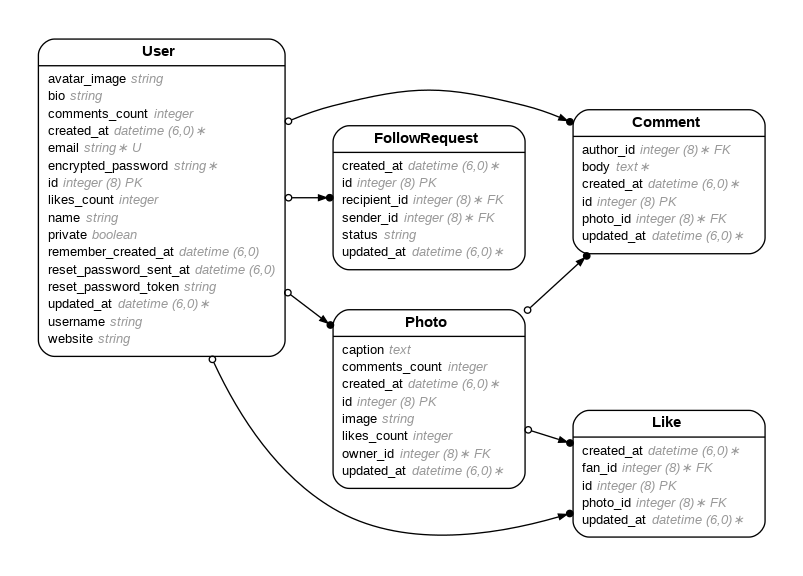
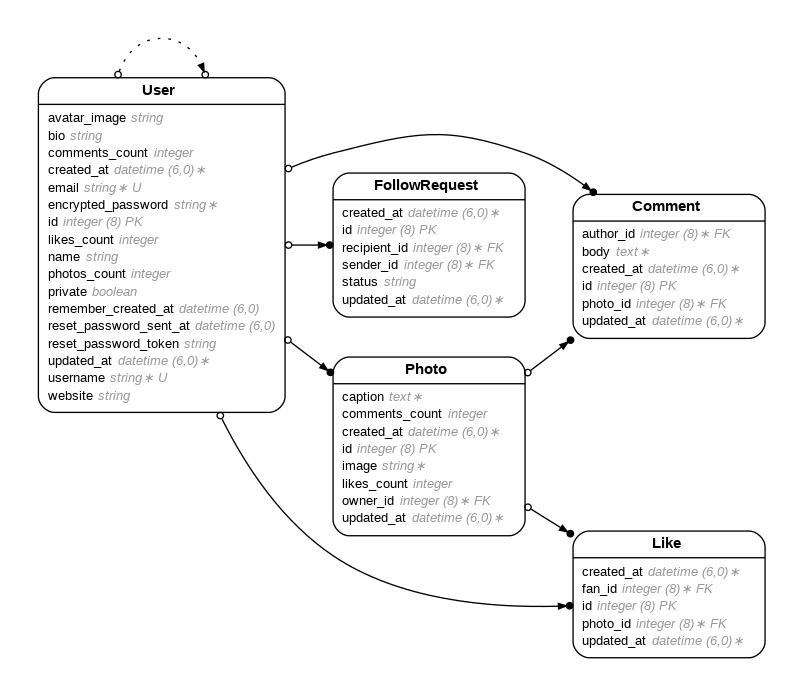
associations

diff --git a/app/models/user.rb b/app/models/user.rb
@@ -10,7 +10,8 @@
 #  encrypted_password     :string           default(""), not null
 #  likes_count            :integer          default(0)
 #  name                   :string
-#  private                :boolean
+#  photos_count           :integer
+#  private                :boolean          default(TRUE)
 #  remember_created_at    :datetime
 #  reset_password_sent_at :datetime
 #  reset_password_token   :string
@@ -31,6 +32,20 @@ class User < ApplicationRecord
   devise :database_authenticatable, :registerable,
          :recoverable, :rememberable, :validatable
 
-  has_many :own_photos, class_name: "Photo", foreign_key: "owner_id"
+  has_many :own_photos, foreign_key: :owner_id, class_name: "Photo"
   has_many :comments, foreign_key: "author_id"
+  has_many :sent_follow_requests, foreign_key: :sender_id, class_name: "FollowRequest"
+  has_many :accepted_sent_follow_requests, -> { where(status: "accepted") }, foreign_key: :sender_id, class_name: "FollowRequest"
+  has_many :received_follow_requests, foreign_key: :recipient_id, class_name: "FollowRequest"
+  has_many :accepted_received_follow_requests, -> { where(status: "accepted") }, foreign_key: :recipient_id, class_name: "FollowRequest"
+  has_many :likes, foreign_key: :fan_id
+  has_many :liked_photos, through: :likes, source: :photo
+  has_many :leaders, through: :accepted_sent_follow_requests, source: :recipient
+  has_many :followers, through: :accepted_received_follow_requests, source: :sender
+  has_many :feed, through: :leaders, source: :own_photos
+
+  has_many :discover, -> { distinct }, through: :leaders, source: :liked_photos
+
+  validates :username, presence: true, uniqueness: true
+
 end

diff --git a/spec/models/user_spec.rb b/spec/models/user_spec.rb
@@ -3,20 +3,19 @@
 # Table name: users
 #
 #  id                     :bigint           not null, primary key
-#  avatar_image           :string           default("avatar_placeholder.png")
+#  avatar_image           :string
 #  bio                    :string
 #  comments_count         :integer          default(0)
-#  email                  :citext           default(""), not null
+#  email                  :string           default(""), not null
 #  encrypted_password     :string           default(""), not null
-#  integer                :integer          default(0)
 #  likes_count            :integer          default(0)
 #  name                   :string
-#  photos_count           :integer          default(0)
+#  photos_count           :integer
 #  private                :boolean          default(TRUE)
 #  remember_created_at    :datetime
 #  reset_password_sent_at :datetime
 #  reset_password_token   :string
-#  username               :citext           not null
+#  username               :string
 #  website                :string
 #  created_at             :datetime         not null
 #  updated_at             :datetime         not null

diff --git a/db/schema.rb b/db/schema.rb
@@ -10,7 +10,7 @@
 #
 # It's strongly recommended that you check this file into your version control system.
 
-ActiveRecord::Schema[8.0].define(version: 2025_04_03_014342) do
+ActiveRecord::Schema[8.0].define(version: 2025_04_09_212205) do
   # These are extensions that must be enabled in order to support this database
   enable_extension "citext"
   enable_extension "pg_catalog.plpgsql"
@@ -65,11 +65,12 @@ ActiveRecord::Schema[8.0].define(version: 2025_04_03_014342) do
     t.string "avatar_image"
     t.string "bio"
     t.string "website"
-    t.boolean "private"
+    t.boolean "private", default: true
     t.integer "likes_count", default: 0
     t.integer "comments_count", default: 0
     t.datetime "created_at", null: false
     t.datetime "updated_at", null: false
+    t.integer "photos_count"
     t.index ["email"], name: "index_users_on_email", unique: true
     t.index ["reset_password_token"], name: "index_users_on_reset_password_token", unique: true
     t.index ["username"], name: "index_users_on_username", unique: true

diff --git a/spec/models/comment_spec.rb b/spec/models/comment_spec.rb
@@ -3,7 +3,7 @@
 # Table name: comments
 #
 #  id         :bigint           not null, primary key
-#  body       :text
+#  body       :text             not null
 #  created_at :datetime         not null
 #  updated_at :datetime         not null
 #  author_id  :bigint           not null
@@ -11,8 +11,7 @@
 #
 # Indexes
 #
-#  index_comments_on_author_id  (author_id)
-#  index_comments_on_photo_id   (photo_id)
+#  index_comments_on_photo_id  (photo_id)
 #
 # Foreign Keys
 #

diff --git a/app/models/photo.rb b/app/models/photo.rb
@@ -20,6 +20,11 @@
 #  fk_rails_...  (owner_id => users.id)
 #
 class Photo < ApplicationRecord
-  belongs_to :owner, class_name: "User"
+  belongs_to :owner, class_name: "User", counter_cache: true
   has_many :comments
+  has_many :fans, through: :likes
+
+  validates :caption, presence: true
+  validates :image, presence: true
+
 end

diff --git a/app/models/comment.rb b/app/models/comment.rb
@@ -19,6 +19,7 @@
 #  fk_rails_...  (photo_id => photos.id)
 #
 class Comment < ApplicationRecord
-  belongs_to :author, class_name:"User"
+  belongs_to :author, class_name:"User", counter_cache: true
   belongs_to :photo
+  validates :body, presence: true
 end

diff --git a/app/models/like.rb b/app/models/like.rb
@@ -19,6 +19,6 @@
 #  fk_rails_...  (photo_id => photos.id)
 #
 class Like < ApplicationRecord
-  belongs_to :fan, class_name: "User"
-  belongs_to :photo
+  belongs_to :fan, class_name: "User", counter_cache: true
+  belongs_to :photo, counter_cache: true
 end

diff --git a/db/migrate/20250409212205_add_default_to_private.rb b/db/migrate/20250409212205_add_default_to_private.rb
@@ -1,0 +1,9 @@
+class AddDefaultToPrivate < ActiveRecord::Migration[8.0]
+  def change
+    change_column_default(
+      :users,
+      :private,
+      true
+    )
+  end
+end

diff --git a/db/migrate/20250409211312_add_photos_count_to_users.rb b/db/migrate/20250409211312_add_photos_count_to_users.rb
@@ -1,0 +1,5 @@
+class AddPhotosCountToUsers < ActiveRecord::Migration[8.0]
+  def change
+    add_column :users, :photos_count, :integer
+  end
+end
